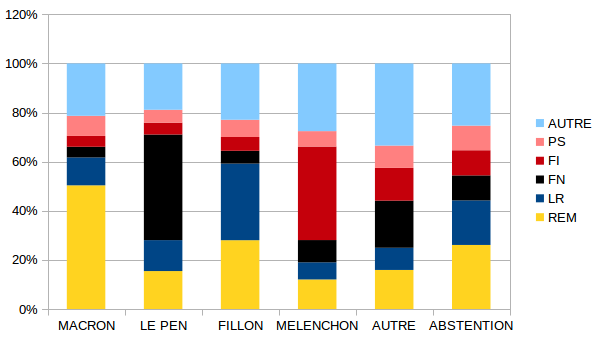
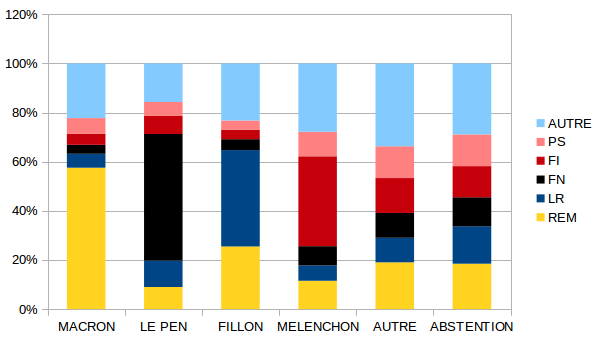
corrections nouveaux chiffres

diff --git a/posts/report-de-voix-entre-presidentielle-et-legislatives.rst b/posts/report-de-voix-entre-presidentielle-et-legislatives.rst
@@ -17,26 +17,29 @@ Dans un `billet précédent </posts/de-2005-a-2017-quont-vote-les-gens-du-oui-et
    :header: "Présidentielle", "REM", "LR", "FN", "FI", "PS", "AUTRE", "ABSTENTION"
    :widths: 40, 15, 15, 15, 15, 15, 15, 15
 
-   MACRON,35%,8%,3%,3%,6%,15%,30%
-   LE PEN,7%,6%,20%,2%,2%,9%,54%
-   FILLON,19%,22%,4%,4%,5%,16%,31%
-   MELENCHON,6%,3%,4%,18%,3%,13%,54%
-   AUTRE,6%,4%,8%,5%,4%,14%,59%
-   ABSTENTION,7%,5%,3%,3%,3%,6%,75%
+   MACRON,40%,4%,3%,3%,4%,15%,30%
+   LE PEN,4%,5%,23%,3%,3%,7%,55%
+   FILLON,19%,29%,3%,3%,3%,17%,26%
+   MELENCHON,5%,3%,3%,16%,4%,12%,56%
+   AUTRE,10%,5%,6%,8%,7%,18%,46%
+   ABSTENTION,3%,2%,2%,2%,2%,5%,84%
 
 .. csv-table:: Report de voix en % entre le premier tour de l'élection présidentielle et le premier tour des élections législatives. Suffrages exprimés seulement (abstention exclue).
-   :header: "Présidentielle", "REM", "LR", "FN", "FI", "PS", "AUTRE", "ABSTENTION"
+   :header: "Présidentielle", "REM", "LR", "FN", "FI", "PS", "AUTRE"
    :widths: 40, 15, 15, 15, 15, 15, 15, 15
 
-   MACRON,50%,11%,4%,4%,8%,21%
-   LE PEN,15%,13%,43%,5%,5%,19%
-   FILLON,28%,31%,5%,6%,7%,23%
-   MELENCHON,12%,7%,9%,38%,6%,28%
-   AUTRE,16%,9%,19%,13%,9%,33%
-   ABSTENTION,26%,18%,10%,10%,10%,25%
-
+   MACRON,58%,6%,4%,5%,6%,22%
+   LE PEN,9%,11%,52%,7%,6%,16%
+   FILLON,25%,39%,4%,4%,4%,23%
+   MELENCHON,12%,6%,8%,37%,10%,28%
+   AUTRE,19%,10%,10%,14%,13%,34%
+   ABSTENTION,18%,15%,12%,13%,13%,29%
 
 .. figure:: /images/legislatives/tout.png
+
+   Report de voix (normalisés) en % entre le premier tour de l'élection présidentielle et le premier tour des élections législatives.
+
+.. figure:: /images/legislatives/tout_normalise.png
 
    Report de voix (normalisés) en % entre le premier tour de l'élection présidentielle et le premier tour des élections législatives.
 
